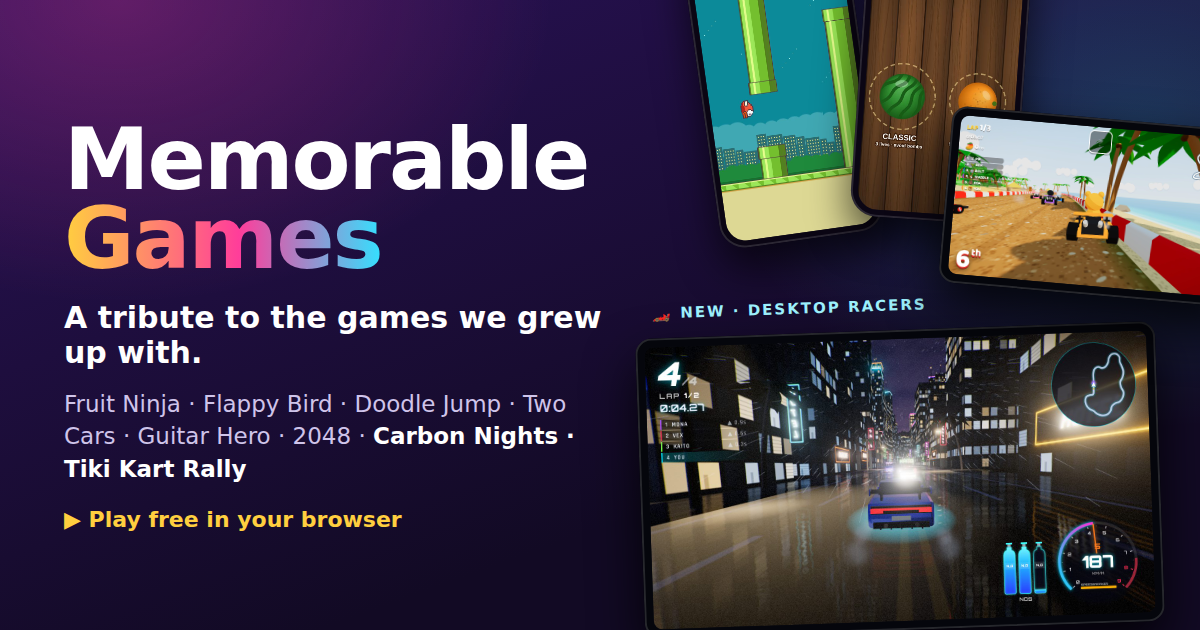
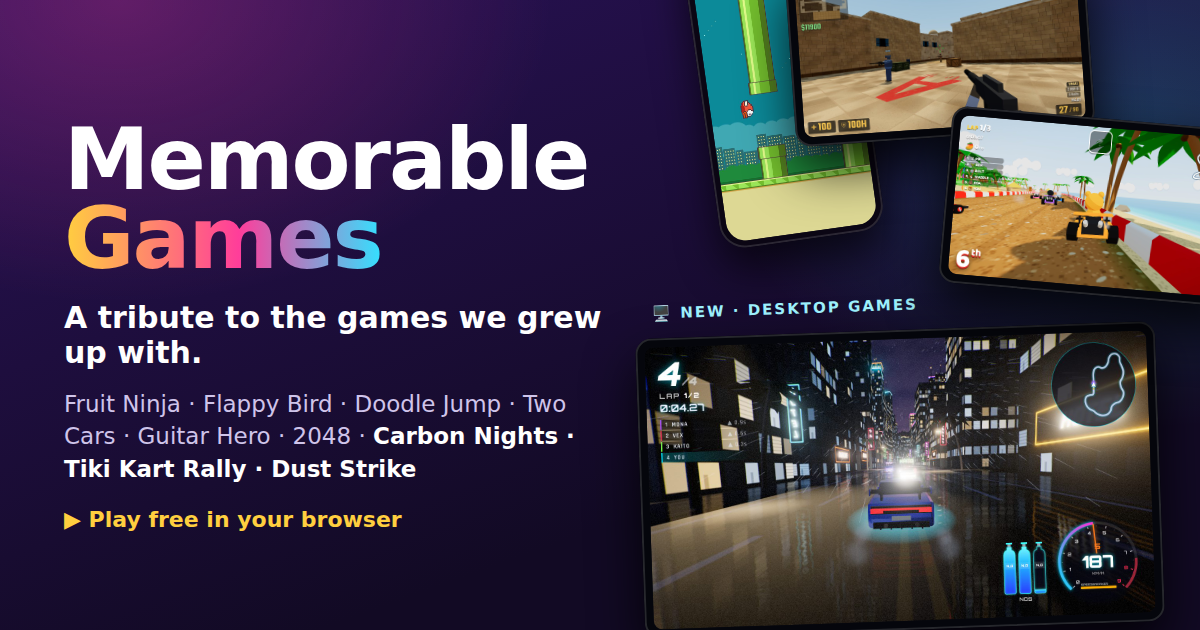
Landing: Dust Strike counts (9 games, 3 desktop), GitHub links, social preview with all 3 desktop games

diff --git a/public/index.html b/public/index.html
@@ -12,13 +12,13 @@
 <meta property="og:type" content="website">
 <meta property="og:url" content="https://games.terrydjony.com/">
 <meta property="og:title" content="Memorable Games — a tribute to the games we grew up with">
-<meta property="og:description" content="The mobile classics you remember, plus a 3D street racer for desktop — rebuilt for your browser. Free, no install, no ads.">
+<meta property="og:description" content="The mobile classics you remember, plus 3D racers and a tactical shooter for desktop — rebuilt for your browser. Free, open source, no ads.">
 <meta property="og:image" content="https://games.terrydjony.com/assets/og.png">
 <meta property="og:image:width" content="1200">
 <meta property="og:image:height" content="630">
 <meta name="twitter:card" content="summary_large_image">
 <meta name="twitter:title" content="Memorable Games — a tribute to the games we grew up with">
-<meta name="twitter:description" content="The classics you remember — rebuilt for your browser, from phone favourites to a 3D street racer.">
+<meta name="twitter:description" content="The classics you remember — rebuilt for your browser, from phone favourites to 3D racers and a 5v5 shooter.">
 <meta name="twitter:image" content="https://games.terrydjony.com/assets/og.png">
 <style>
   :root {
@@ -77,6 +77,8 @@
   .floaters { position: absolute; inset: 0; pointer-events: none; }
   .floaters span { position: absolute; font-size: 34px; opacity: .55; animation: bob 5s ease-in-out infinite; filter: drop-shadow(0 6px 10px #0006); }
   @keyframes bob { 50% { transform: translateY(-14px) rotate(8deg); } }
+  .gh { display: flex; width: fit-content; align-items: center; gap: 8px; margin: 18px auto 0; padding: 8px 16px; border-radius: 999px; background: #0006; border: 1px solid #ffffff2a; color: #fff; font-weight: 700; font-size: 14px; text-decoration: none; }
+  .gh:hover { background: #ffffff1a; }
   .stats { display: flex; gap: 26px; justify-content: center; margin-top: 34px; color: var(--muted); font-size: 14px; flex-wrap: wrap; }
   .stats b { display: block; font-size: 26px; color: #fff; }
 
@@ -170,19 +172,20 @@
   <div class="floaters" aria-hidden="true">
     <span style="left:6%;top:22%">🚗</span><span style="left:88%;top:18%;animation-delay:-1s">🍉</span>
     <span style="left:12%;top:68%;animation-delay:-2s">🐦</span><span style="left:84%;top:62%;animation-delay:-3s">🎸</span>
-    <span style="left:50%;top:6%;animation-delay:-1.5s;font-size:26px">⭐</span><span style="left:72%;top:84%;animation-delay:-2.5s;font-size:28px">🔢</span><span style="left:26%;top:86%;animation-delay:-3.5s;font-size:30px">🏎</span><span style="left:92%;top:40%;animation-delay:-4s;font-size:30px">🏝</span>
+    <span style="left:50%;top:6%;animation-delay:-1.5s;font-size:26px">⭐</span><span style="left:72%;top:84%;animation-delay:-2.5s;font-size:28px">🔢</span><span style="left:26%;top:86%;animation-delay:-3.5s;font-size:30px">🏎</span><span style="left:92%;top:40%;animation-delay:-4s;font-size:30px">🏝</span><span style="left:4%;top:44%;animation-delay:-4.5s;font-size:28px">💣</span>
   </div>
   <div class="wrap hero">
-    <span class="badge">🕹 6 mobile games + 2 desktop racers · free · no install</span>
+    <span class="badge">🕹 6 mobile games + 3 desktop games · free · open source</span>
     <h1>Memorable<br><span class="grad">Games</span></h1>
     <p class="tribute">A tribute to the games we grew up with.</p>
     <p class="tagline">The classics you remember from the good old days — rebuilt from scratch to play instantly in your browser, from one-thumb phone hits to 3D racers and a tactical shooter for the big screen. No app store. No ads. Just play.</p>
     <div class="cta">
       <a class="btn" href="#games">▶ Pick a game</a>
-      <a class="btn ghost" href="#desktop">🏎 Desktop racers</a>
+      <a class="btn ghost" href="#desktop">🖥 Desktop games</a>
       <a class="btn ghost" href="#install">📲 Add to home screen</a>
     </div>
-    <div class="stats"><div><b>8</b>games</div><div><b>0</b>downloads</div><div><b>∞</b>retries</div></div>
+    <a class="gh" href="https://github.com/terryds/memorable-games" target="_blank" rel="noopener"><svg viewBox="0 0 16 16" width="16" height="16" aria-hidden="true"><path fill="currentColor" d="M8 0C3.58 0 0 3.58 0 8c0 3.54 2.29 6.53 5.47 7.59.4.07.55-.17.55-.38 0-.19-.01-.82-.01-1.49-2.01.37-2.53-.49-2.69-.94-.09-.23-.48-.94-.82-1.13-.28-.15-.68-.52-.01-.53.63-.01 1.08.58 1.23.82.72 1.21 1.87.87 2.33.66.07-.52.28-.87.51-1.07-1.78-.2-3.64-.89-3.64-3.95 0-.87.31-1.59.82-2.15-.08-.2-.36-1.02.08-2.12 0 0 .67-.21 2.2.82.64-.18 1.32-.27 2-.27.68 0 1.36.09 2 .27 1.53-1.04 2.2-.82 2.2-.82.44 1.1.16 1.92.08 2.12.51.56.82 1.27.82 2.15 0 3.07-1.87 3.75-3.65 3.95.29.25.54.73.54 1.48 0 1.07-.01 1.93-.01 2.2 0 .21.15.46.55.38A8.013 8.013 0 0016 8c0-4.42-3.58-8-8-8z"/></svg> Open source on GitHub — star it ⭐</a>
+    <div class="stats"><div><b>9</b>games</div><div><b>0</b>downloads</div><div><b>∞</b>retries</div></div>
   </div>
 </header>
 
@@ -264,7 +267,7 @@
 
 <footer>
   <div class="wrap">
-    Made with ❤ for the games we grew up with · <a href="https://terrydjony.com">terrydjony.com</a><br>
+    Made with ❤ for the games we grew up with · <a href="https://terrydjony.com">terrydjony.com</a> · <a href="https://github.com/terryds/memorable-games">Source on GitHub</a><br>
     Fan-made tributes for fun. Not affiliated with, endorsed by, or connected to the original games or their creators — all trademarks belong to their respective owners.
   </div>
 </footer>

diff --git a/public/404.html b/public/404.html
@@ -17,6 +17,6 @@
 </style>
 </head>
 <body>
-  <div><h1>GAME OVER</h1><p>This page doesn't exist — but eight games do.</p><a href="/">▶ Back to the games</a></div>
+  <div><h1>GAME OVER</h1><p>This page doesn't exist — but nine games do.</p><a href="/">▶ Back to the games</a></div>
 </body>
 </html>

diff --git a/README.md b/README.md
@@ -4,7 +4,7 @@
 
 The classics you remember — rebuilt from scratch to play instantly in the browser: six mobile
 hits plus 3D racers and a tactical shooter for the big screen.
-Live at **https://games.terrydjony.com**
+Live at **https://games.terrydjony.com** · Source: **https://github.com/terryds/memorable-games**
 
 | # | Game | Path | Controls |
 |---|------|------|----------|
